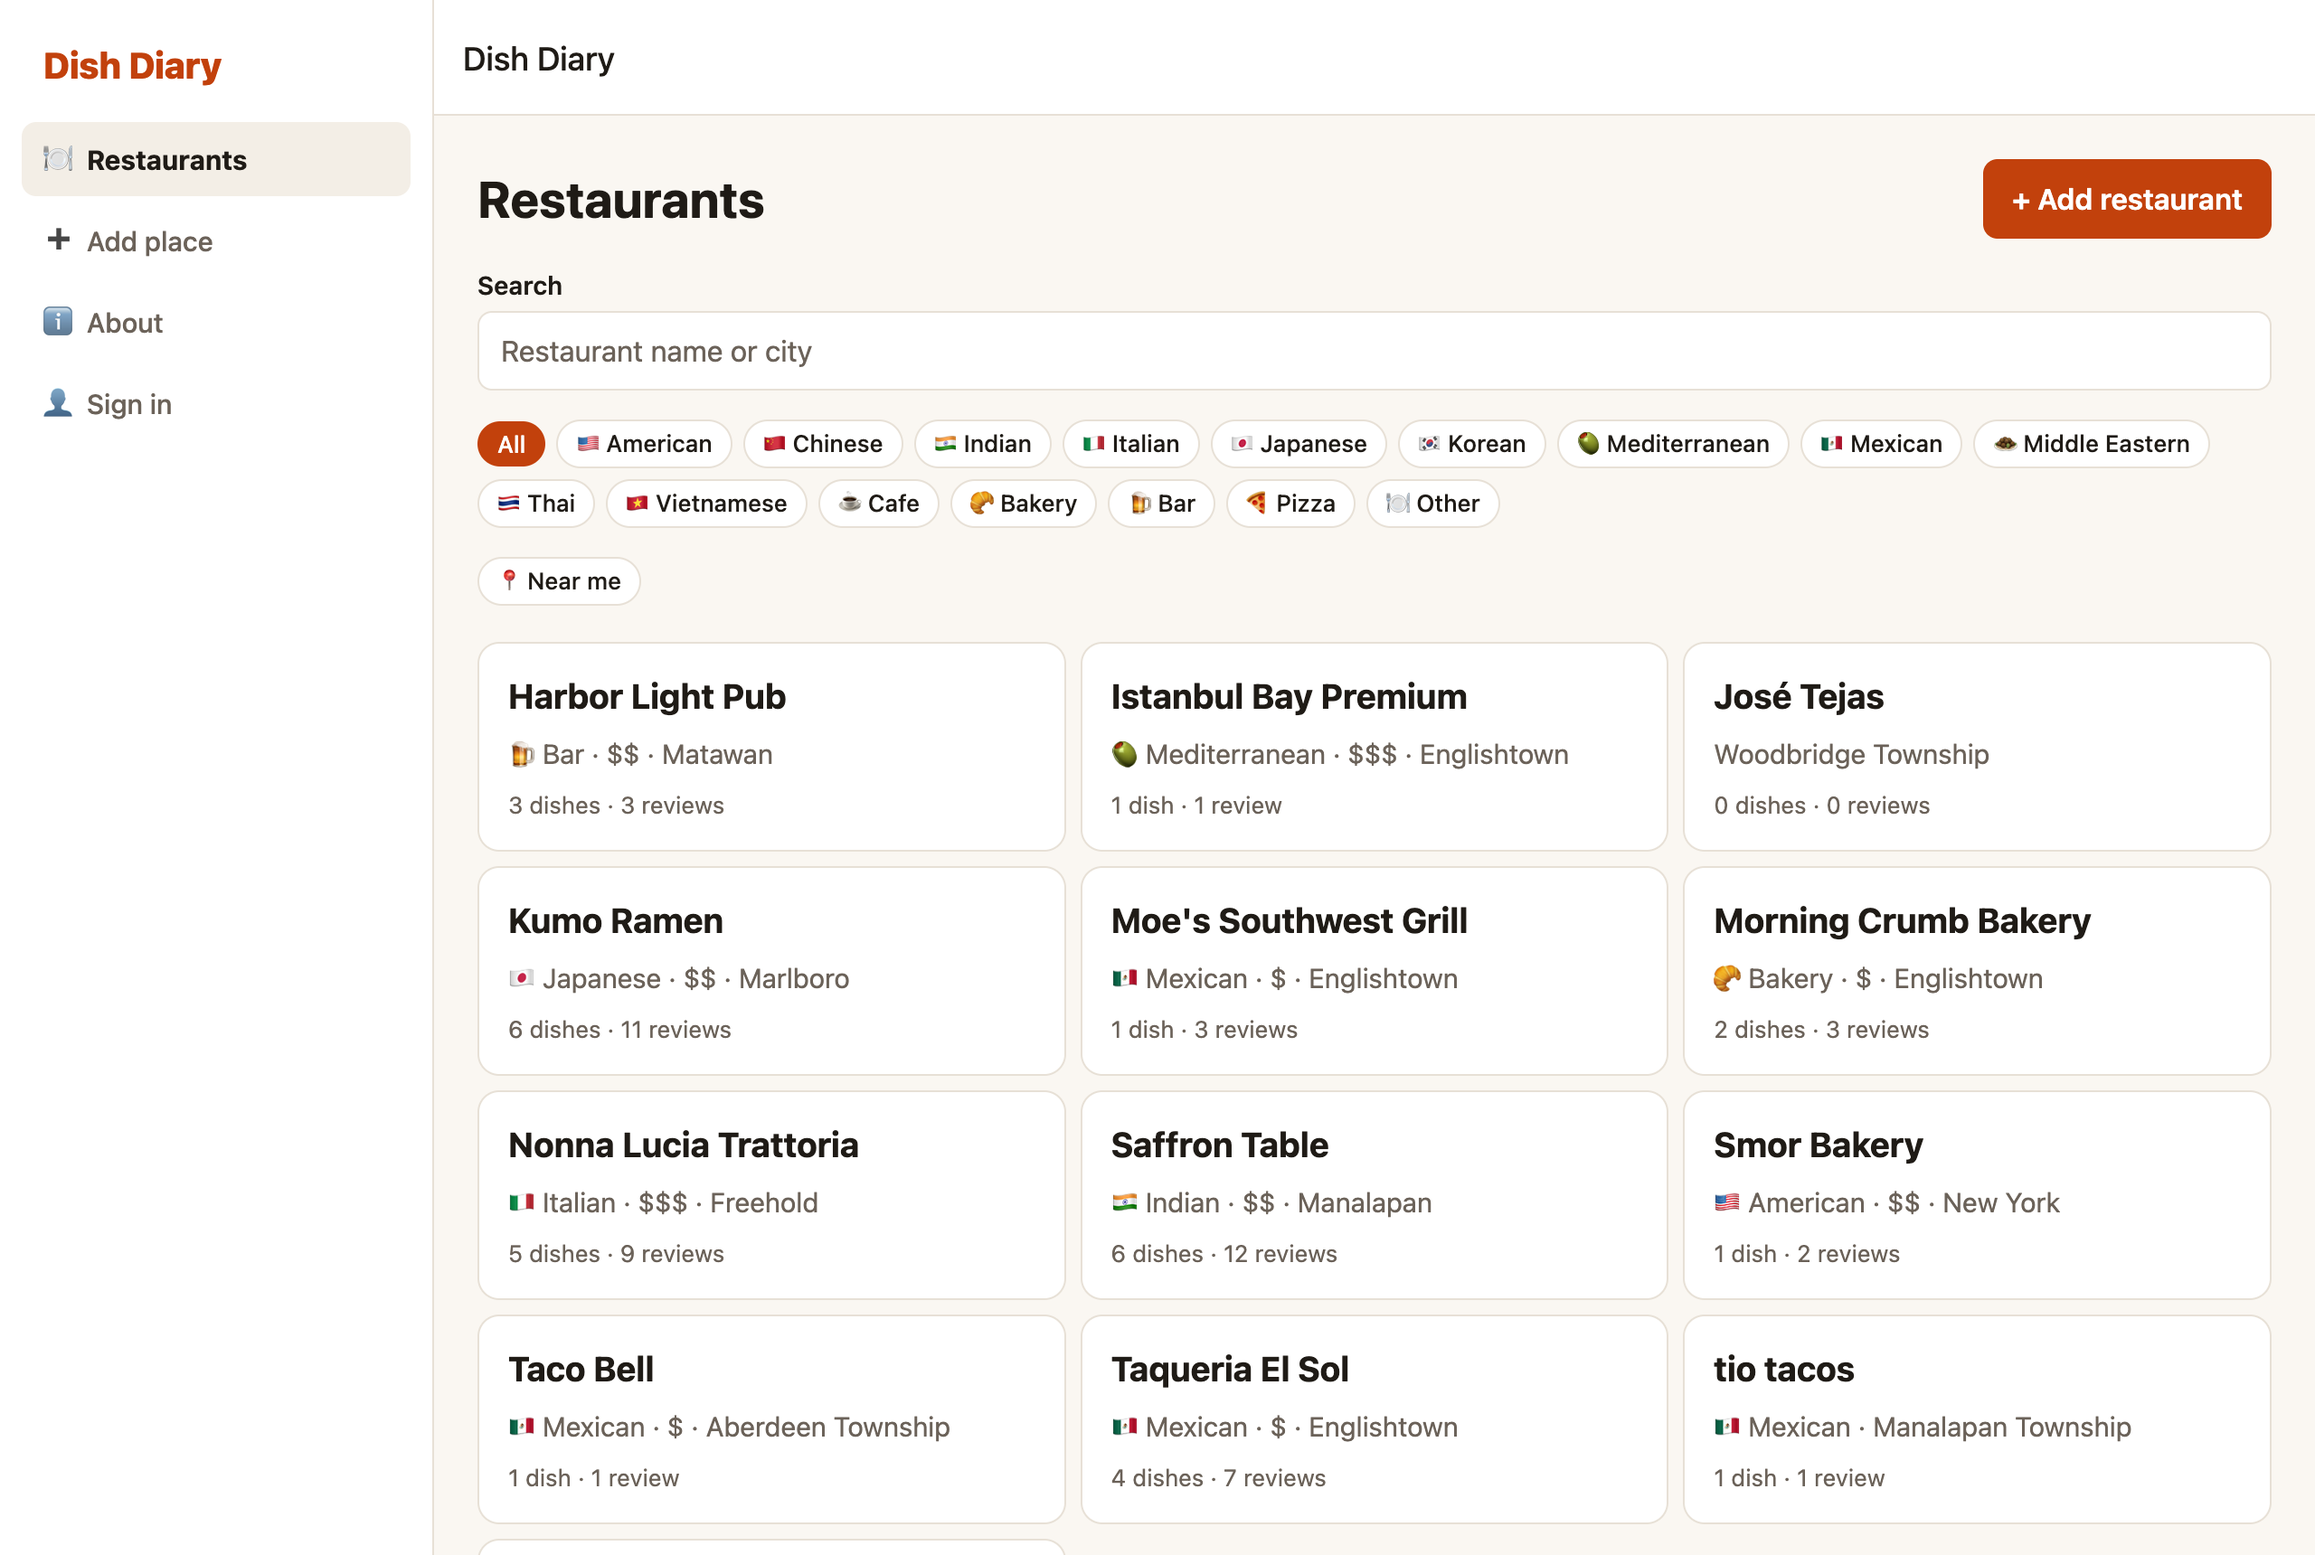
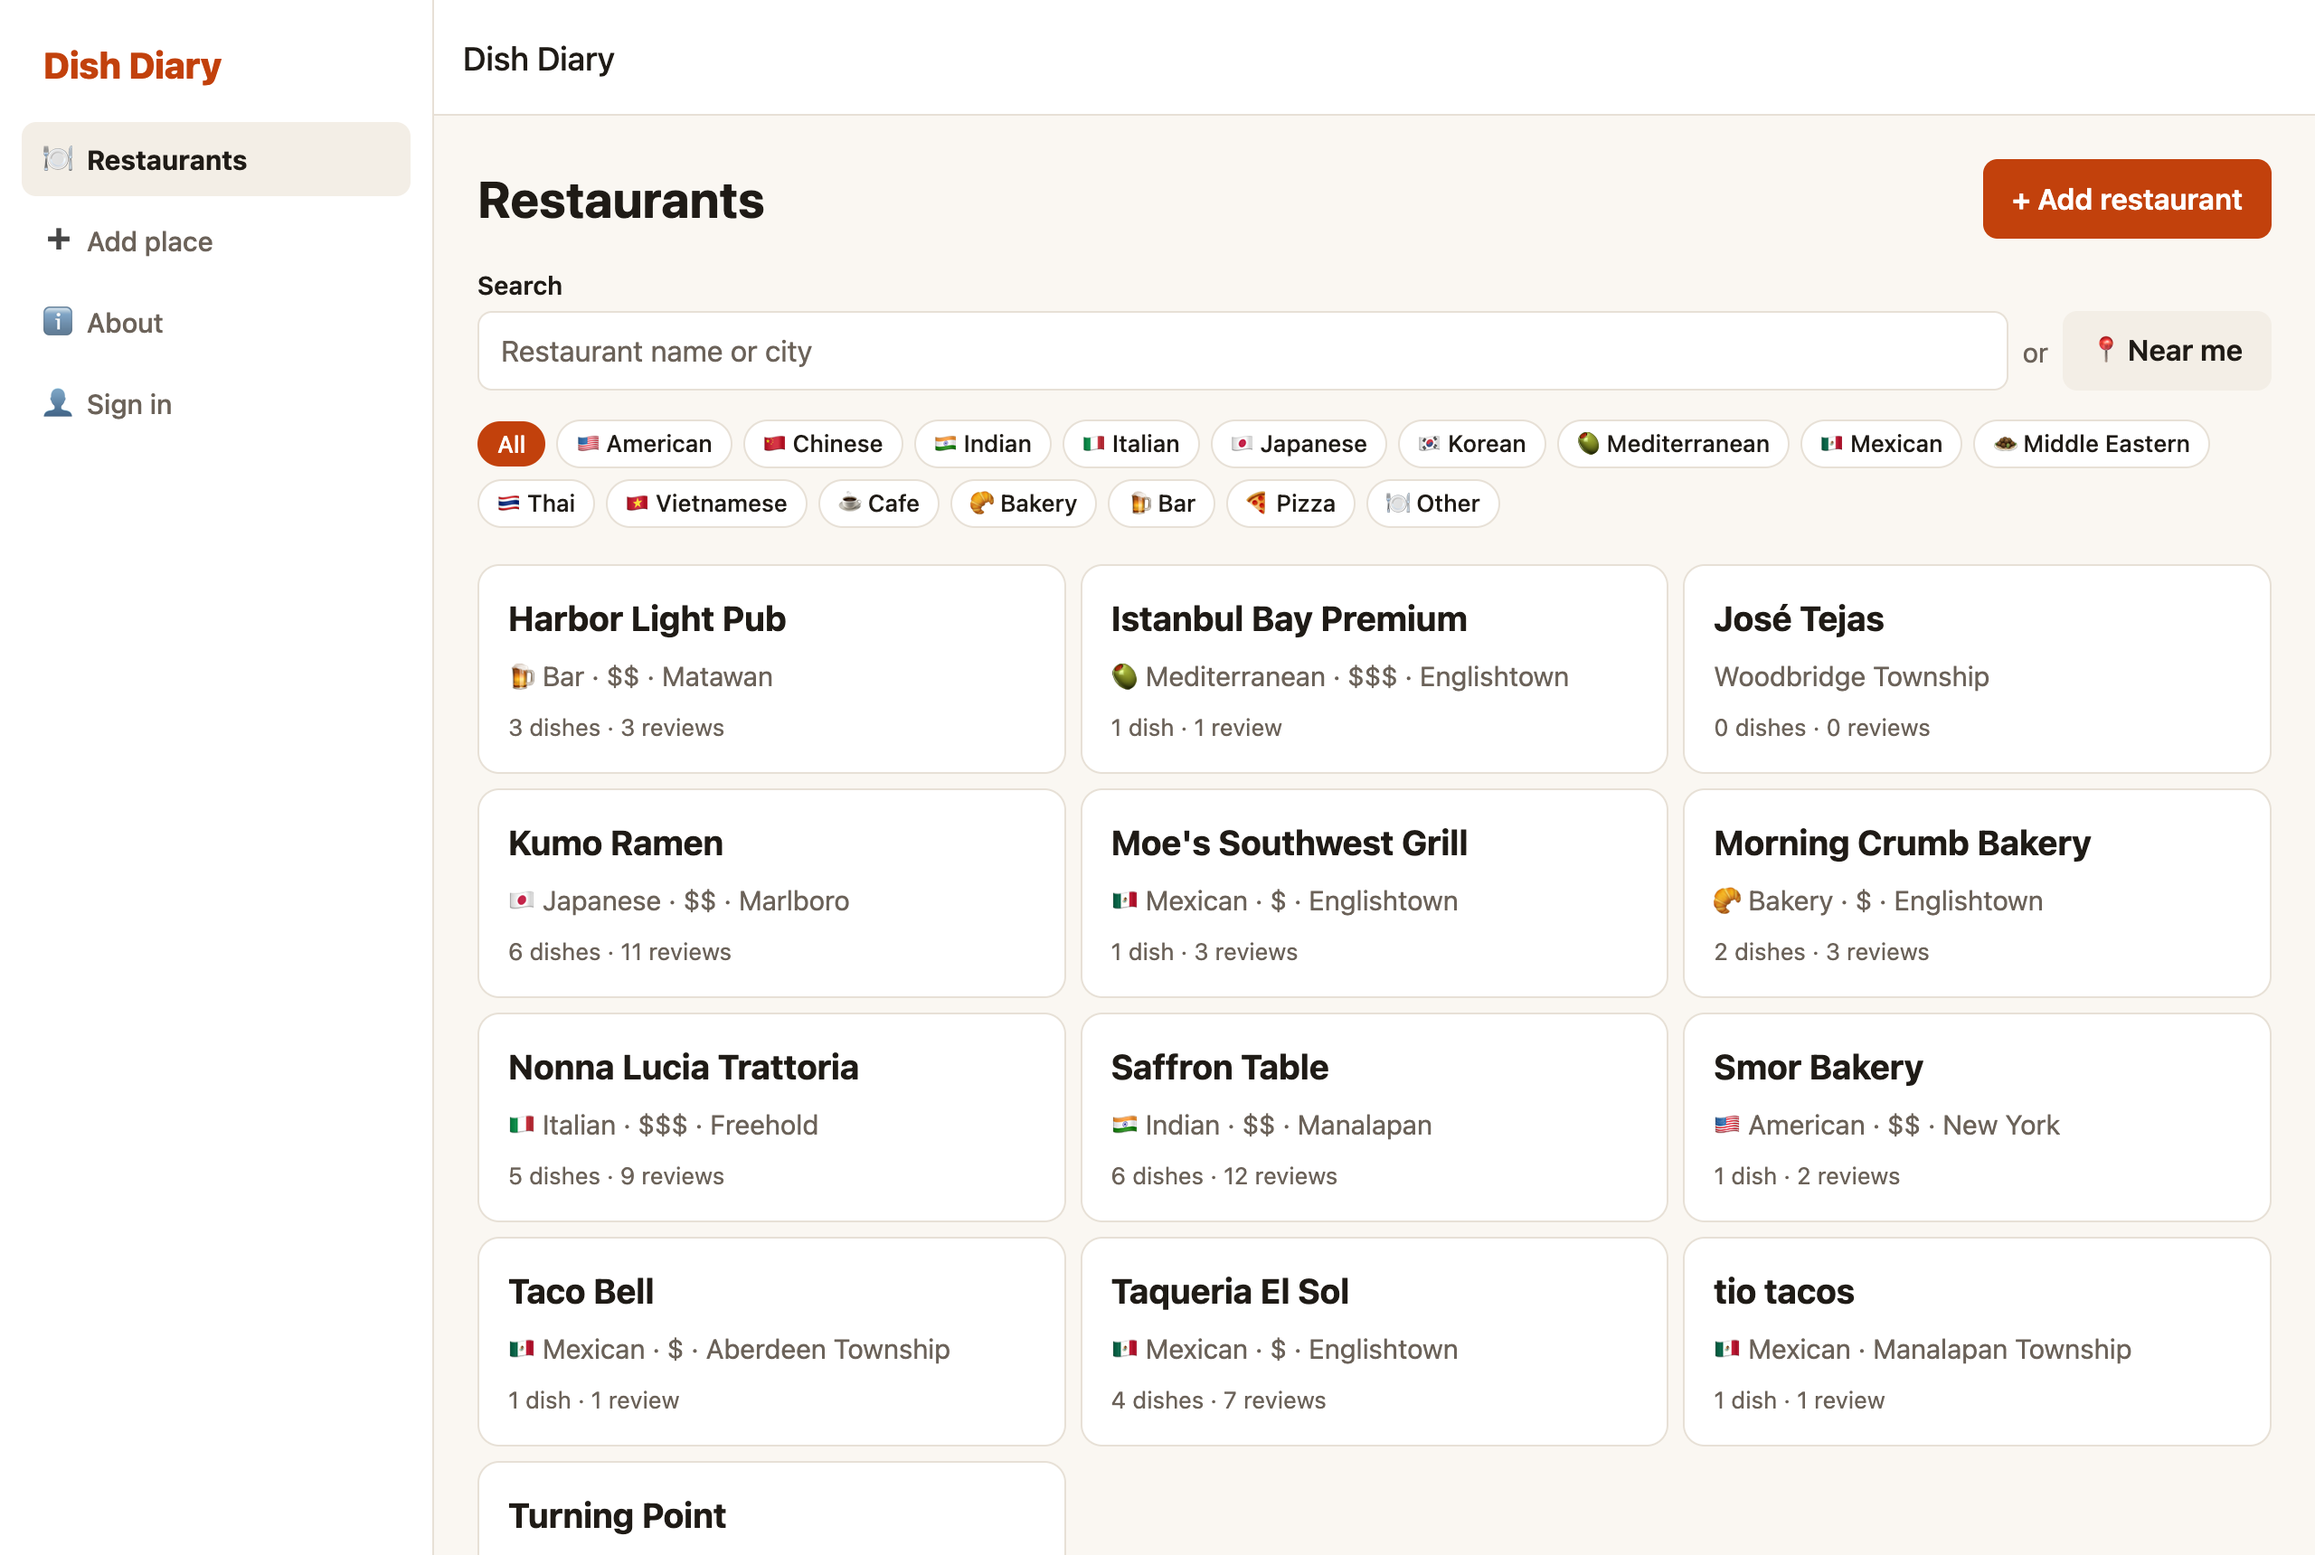
Put "Near me" beside the restaurant search
The search row now reads "[ Restaurant name or city ] or [ Near me ]",
so finding places by location is clearly an alternative to typing.
Distance choices ("Within 2/5/10/25 mi") appear right under it when on,
above the cuisine filters. README screenshots refreshed.

diff --git a/src/app/index.tsx b/src/app/index.tsx
@@ -1,6 +1,6 @@
 import { Link, router, useFocusEffect } from 'expo-router';
 import { useCallback, useEffect, useState } from 'react';
-import { Pressable } from 'react-native';
+import { Pressable, View } from 'react-native';
 
 import { HiddenBadge } from '@/components/admin-tools';
 import { AppText, Button, Card, Chip, EmptyState, Field, Grid, Loading, Notice, Row, Screen } from '@/components/ui';
@@ -85,14 +85,36 @@ export default function RestaurantsScreen() {
         <Button title="+ Add restaurant" onPress={() => router.push('/restaurant/new')} />
       </Row>
 
-      <Field
-        label="Search"
-        value={query}
-        onChangeText={setQuery}
-        placeholder="Restaurant name or city"
-        autoCorrect={false}
-        returnKeyType="search"
-      />
+      {/* Two ways to find places, side by side: type a search, or use your location. */}
+      <Row style={{ alignItems: 'flex-end' }}>
+        <View style={{ flex: 1 }}>
+          <Field
+            label="Search"
+            value={query}
+            onChangeText={setQuery}
+            placeholder="Restaurant name or city"
+            autoCorrect={false}
+            returnKeyType="search"
+          />
+        </View>
+        <AppText variant="muted" style={{ paddingBottom: space.md - 2 }}>or</AppText>
+        <Button
+          title={locating ? 'Finding you…' : '📍 Near me'}
+          variant={here ? 'primary' : 'secondary'}
+          onPress={toggleNearMe}
+          loading={locating}
+        />
+      </Row>
+      {here && (
+        <View style={{ gap: space.xs }}>
+          <Row wrap style={{ gap: space.xs + 2 }}>
+            {RADII_MILES.map((mi) => (
+              <Chip key={mi} label={`Within ${mi} mi`} selected={radius === mi} onPress={() => setRadius(mi)} />
+            ))}
+          </Row>
+          <AppText variant="small">Reviewed restaurants within {radius} miles of you, nearest first. Tap 📍 Near me again to see all.</AppText>
+        </View>
+      )}
 
       {/* Wraps onto extra lines so every cuisine is visible without sideways scrolling. */}
       <Row wrap style={{ gap: space.xs + 2 }}>
@@ -101,17 +123,6 @@ export default function RestaurantsScreen() {
           <Chip key={name} label={cuisineLabel(name)} selected={cuisine === name} onPress={() => setCuisine(cuisine === name ? null : name)} />
         ))}
       </Row>
-
-      <Row wrap style={{ gap: space.xs + 2 }}>
-        <Chip label={locating ? '📍 Finding you…' : '📍 Near me'} selected={!!here} onPress={toggleNearMe} />
-        {here &&
-          RADII_MILES.map((mi) => (
-            <Chip key={mi} label={`${mi} mi`} selected={radius === mi} onPress={() => setRadius(mi)} />
-          ))}
-      </Row>
-      {here && (
-        <AppText variant="small">Reviewed restaurants within {radius} miles of you, nearest first.</AppText>
-      )}
 
       <Notice message={error} />
 
